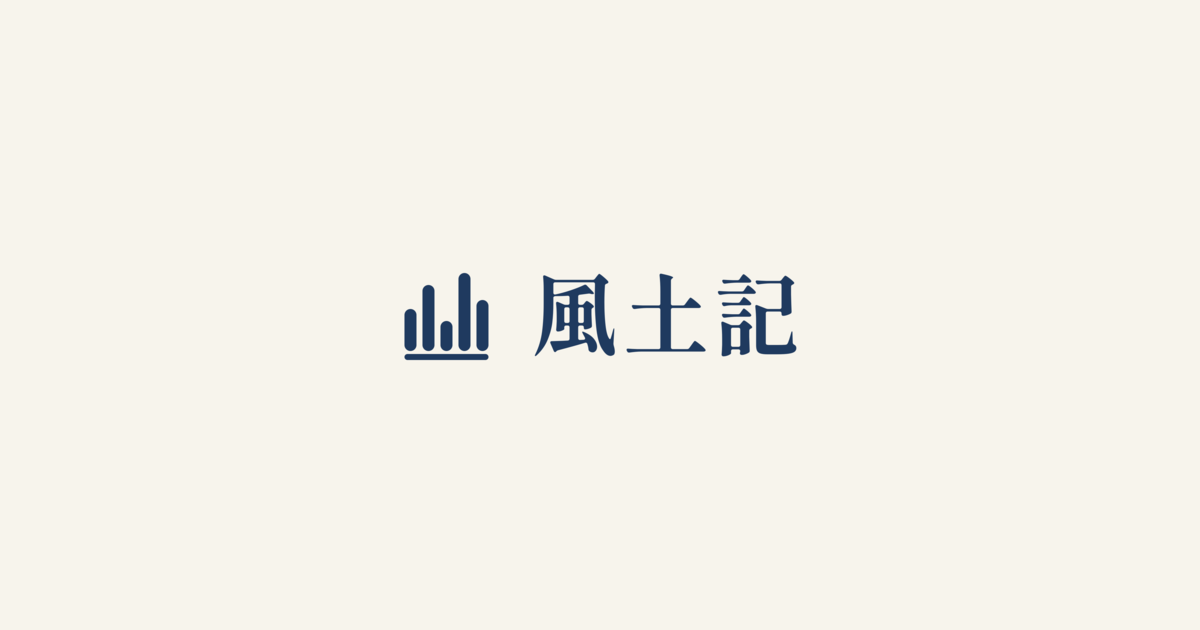
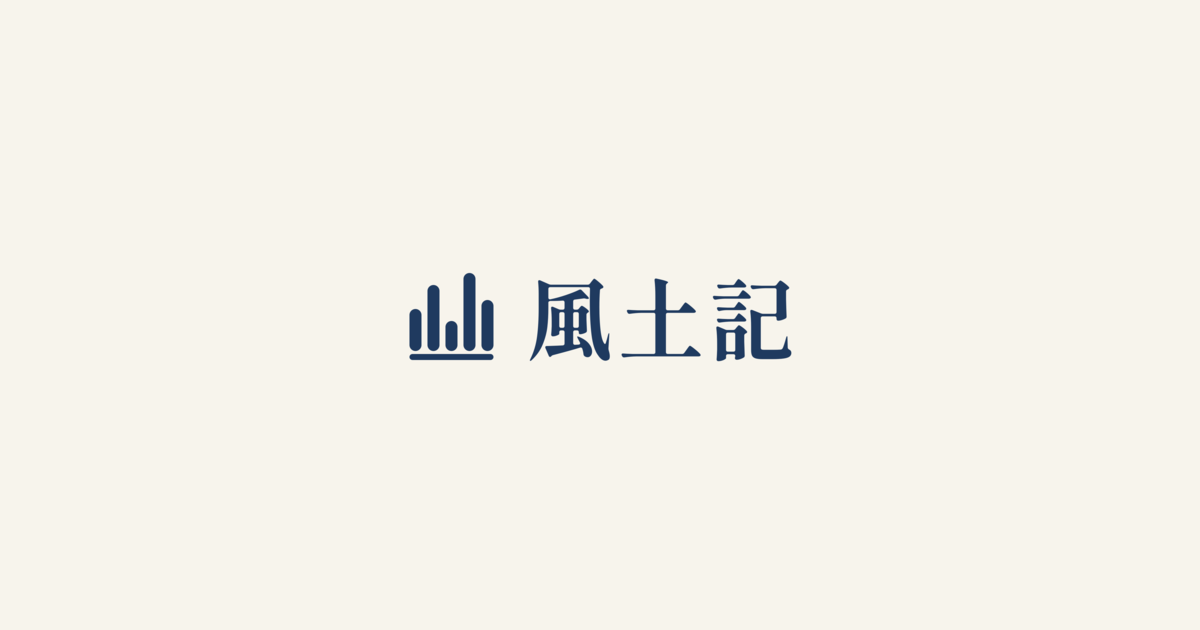
fix(brand): マークと文字の間隔を詰め、文字を光学的に下へ寄せる
ink bbox の中心で揃えると重心が上に見えていた。
マークは下端の基準線が地面として読まれるぶん視覚的な重さが下にあり、
明朝の「風土記」は横画が上半分に密集していて重さが上に寄るため、
幾何中心で揃えるとその差がずれとして出る。

補正は定数ではなく字面高さに対する比で持つ（サイズを変えても崩れない）。
間隔は og 36→26px、logo 14→9px。

Changed region(s): [[0.3392, 0.4222, 0.6783, 0.573]]

diff --git a/apps/web/src/App.tsx b/apps/web/src/App.tsx
@@ -16,7 +16,6 @@ import { Card, CardDescription, CardHeader, CardTitle } from '@/components/ui/ca
 import { Tabs, TabsContent, TabsList, TabsTrigger } from '@/components/ui/tabs'
 import { Tooltip, TooltipContent, TooltipTrigger } from '@/components/ui/tooltip'
 import { Info } from 'lucide-react'
-import { Button } from '@/components/ui/button'
 import { levelsOf, loadDetail, loadPipeline, toRows, type DetailData, type PipelineData } from '@/lib/pipeline'
 
 export default function App() {
@@ -119,20 +118,23 @@ export default function App() {
   return (
     <div className="min-h-dvh bg-background text-foreground">
       <header className="sticky top-0 z-30 flex h-14 items-center gap-4 border-b bg-background/95 px-4 backdrop-blur">
-        <div className="flex min-w-0 items-center gap-2">
-          {data.jurisdictions.length > 1 && (
-            <nav aria-label="団体" className="flex shrink-0 gap-1">
+        <div className="flex min-w-0 items-center gap-3">
+          <img src="/logo.svg" alt="風土記" className="h-6 w-auto shrink-0" />
+          {data.jurisdictions.length > 1 ? (
+            <select
+              aria-label="団体"
+              value={current.code}
+              onChange={(e) => { setCode(e.target.value); setSelectedNode(null); setDetailError(null) }}
+              className="border-input h-8 shrink-0 rounded-md border bg-background px-2 text-sm focus-visible:ring-ring/50 focus-visible:ring-[3px] focus-visible:outline-none"
+            >
               {data.jurisdictions.map((j) => (
-                <Button
-                  key={j.code}
-                  size="sm"
-                  variant={j.code === current.code ? 'default' : 'outline'}
-                  onClick={() => { setCode(j.code); setSelectedNode(null); setDetailError(null) }}
-                >
+                <option key={j.code} value={j.code}>
                   {j.report.meta.jurisdictionName}
-                </Button>
+                </option>
               ))}
-            </nav>
+            </select>
+          ) : (
+            <span className="shrink-0 text-sm font-medium">{m.jurisdictionName}</span>
           )}
           <span className="truncate text-sm text-muted-foreground">
             {m.fiscalYears.length > 2

diff --git a/apps/web/brand/build.py b/apps/web/brand/build.py
@@ -124,25 +124,30 @@ THEME = f"""
 )
 
 # ---- logo.svg：マーク + 「風土記」の横組み ----
-H, GAP, TEXT = 40, 14, 30
+# ⚠ 字面の中心（draw が計算する ink bbox の中心）に合わせると、重心が上に見える。
+# マークは下端の基準線が「地面」として読まれるぶん視覚的な重さが下にあるのに対し、
+# 明朝の「風土記」は横画が上半分に密集していて、幾何的な中心より上に重さが寄るため。
+# 光学的に下へ寄せる。TEXT_DY はこの補正で、字面の高さに対する比で持つ。
+H, GAP, TEXT, TEXT_DY = 40, 9, 30, 0.055
 tx = 32 * (H / 32) + GAP
 W = tx + measure("風土記", TEXT, 0.03)
 (PUBLIC / "logo.svg").write_text(
     f'<svg xmlns="http://www.w3.org/2000/svg" viewBox="0 0 {W:.0f} {H}" role="img" aria-label="風土記">\n'
     f"  <title>風土記</title>{THEME}\n"
     f'  {mark(H / 32, 0, 0, "ink")}\n'
-    f'  <g class="ink">{draw("風土記", TEXT, tx, H / 2, 0.03)}</g>\n</svg>\n'
+    f'  <g class="ink">{draw("風土記", TEXT, tx, H / 2 + TEXT * TEXT_DY, 0.03)}</g>\n</svg>\n'
 )
 
 # ---- og.png：1200x630。SVG を経由して焼く ----
 OW, OH = 1200, 630
-block = 96 + 36 + measure("風土記", 88, 0.04)
+OG_MARK, OG_TEXT, OG_GAP = 96, 88, 26
+block = OG_MARK + OG_GAP + measure("風土記", OG_TEXT, 0.04)
 ox, cy = (OW - block) / 2, OH / 2
 og = (
     f'<svg xmlns="http://www.w3.org/2000/svg" width="{OW}" height="{OH}" viewBox="0 0 {OW} {OH}">\n'
     f'  <rect width="{OW}" height="{OH}" fill="{PAPER}"/>\n'
-    f'  <g fill="{INK}">{mark(96 / 32, ox, cy - 48)}</g>\n'
-    f'  <g fill="{INK}">{draw("風土記", 88, ox + 96 + 36, cy, 0.04)}</g>\n'
+    f'  <g fill="{INK}">{mark(OG_MARK / 32, ox, cy - OG_MARK / 2)}</g>\n'
+    f'  <g fill="{INK}">{draw("風土記", OG_TEXT, ox + OG_MARK + OG_GAP, cy + OG_TEXT * TEXT_DY, 0.04)}</g>\n'
     "</svg>\n"
 )
 (HERE / "og.svg").write_text(og)

diff --git a/apps/slides/slides.md b/apps/slides/slides.md
@@ -24,7 +24,6 @@ css: unocss
 <!-- 2. Problem: 1枚1メッセージ。数字も装飾もなし -->
 
 <div class="h-full flex flex-col justify-center">
-  <p class="f-label mb-4">Problem</p>
   <h1>自治体の予算は全部公開されている。<br>しかし機械で読めない。</h1>
   <div class="mt-8 space-y-3 text-sm">
 
@@ -41,11 +40,9 @@ css: unocss
 <!-- 3. Solution: 何をするかを1文 + パイプライン図 -->
 
 <div class="h-full flex flex-col justify-center">
-  <p class="f-label mb-4">Solution</p>
   <h1>集めて、同じ様式に編んで、標準形式で配る。</h1>
-  <div class="mt-6 f-card h-52 flex items-center justify-center">
-    <!-- TODO: fudoki.dev パイプライン画面のスクリーンショットに差し替え -->
-    <span class="f-caption">（パイプライン画面のスクリーンショット）</span>
+  <div class="mt-6 f-card !p-2 overflow-hidden">
+    <img src="/pipeline.png" class="w-full" alt="ELT パイプライン: 取得元 → ingestion → staging → core → package" />
   </div>
   <div class="grid grid-cols-2 gap-4 mt-4 text-sm">
     <div class="f-nojudgment">自治体が公表した事実（原典・正本）</div>
@@ -58,7 +55,6 @@ css: unocss
 <!-- 4. Demo: 実物。URL と、事業単位で引ける実例 -->
 
 <div class="h-full flex flex-col justify-center">
-  <p class="f-label mb-4">Demo</p>
   <h1>事業単位の使途が、機械で引ける。</h1>
   <div class="mt-6 f-card">
     <div class="f-mono">「いじめ問題対策協議会関係費」はいくら?</div>
@@ -70,29 +66,25 @@ css: unocss
 
 ---
 
-<!-- 5. Traction: 実測値だけ。stat カード3枚 -->
+<!-- 5. Technology: 技術軸。宣言・層・検査 -->
 
 <div class="h-full flex flex-col justify-center">
-  <p class="f-label mb-4">Traction</p>
-  <h1>2団体、55,255行を配布中。</h1>
-  <div class="grid grid-cols-3 gap-4 mt-8">
+  <h1>自治体を足す作業は、宣言を1つ書くだけ。</h1>
+  <div class="grid grid-cols-3 gap-4 mt-8 text-sm">
     <div class="f-card">
-      <div class="f-label">団体</div>
-      <div class="f-stat">2</div>
-      <div class="f-caption">三鷹市・狛江市</div>
+      <div class="f-label">自治体差は宣言で吸収</div>
+      <p class="!mt-2">金額の単位、文字コード、科目の書式。自治体ごとの癖はコードに埋めず <span class="f-mono">sources.toml</span> に宣言する</p>
     </div>
     <div class="f-card">
-      <div class="f-label">配布行数</div>
-      <div class="f-stat">55,255</div>
-      <div class="f-caption">歳出・歳入・事業名</div>
+      <div class="f-label">事実と判断を層で分離</div>
+      <p class="!mt-2">自治体が公表した事実（正本）と風土記の判断（COFOG 割当）を分け、境界は dbt のテストで守る</p>
     </div>
     <div class="f-card">
-      <div class="f-label">年度</div>
-      <div class="f-stat">7</div>
-      <div class="f-caption">予算1 + 決算6</div>
+      <div class="f-label">検査が落ちたら配らない</div>
+      <p class="!mt-2">原文の復元・行数の一致など42検査。1つでも落ちると下流の配布物を作らない</p>
     </div>
   </div>
-  <p class="f-caption mt-8">Fiscal Data Package 1.0.0 + COFOG。団体を足す作業は「宣言を1つ書く」に閉じた。</p>
+  <p class="f-caption mt-8">ingestion(Python) → Parquet / DuckDB → dbt → Fiscal Data Package 1.0.0（国際標準）。</p>
 </div>
 
 ---
@@ -100,28 +92,38 @@ css: unocss
 <!-- 6. Why now: AI。MCP で直接引ける -->
 
 <div class="h-full flex flex-col justify-center">
-  <p class="f-label mb-4">Why now</p>
   <h1>AI は PDF の予算書に答えられない。<br>構造化データなら答えられる。</h1>
-  <div class="mt-8 f-card">
-    <div class="f-mono">"狛江市の2023年度、教育費の事業別内訳は?" → 風土記 MCP → 表</div>
+  <div class="mt-4 f-card !p-3 overflow-hidden">
+    <img src="/mcp-demo.png" class="w-full max-h-64 object-contain" alt="Claude が fudoki MCP で三鷹市のいじめ対策費を引いて答える" />
   </div>
-  <p class="f-caption mt-6">API と MCP サーバで提供。国際標準の語彙（COFOG）だから、AI が学習済みの分類で答えられる。</p>
+  <p class="f-caption mt-3">API と MCP サーバで提供。国際標準の語彙（COFOG）だから、AI が学習済みの分類で答えられる。</p>
 </div>
 
 ---
 
-<!-- 7. Vision: 市場と行き先。自治体版 Open States -->
+<!-- 7. 将来の展望（最終スライド） -->
 
 <div class="h-full flex flex-col justify-center">
-  <p class="f-label mb-4">Vision</p>
   <h1>自治体財政の Open States になる。</h1>
-  <div class="mt-8 space-y-3 text-sm">
+  <div class="grid grid-cols-3 gap-4 mt-8 text-sm">
+    <div class="f-card">
+      <div class="f-label">① 何にいくら</div>
+      <p class="!mt-2">予算・決算<br><span class="f-mono">Fiscal Data Package</span></p>
+    </div>
+    <div class="f-card">
+      <div class="f-label">② いつ何が公告されたか</div>
+      <p class="!mt-2">調達<br><span class="f-mono">OCDS</span></p>
+    </div>
+    <div class="f-card">
+      <div class="f-label">③ どう決まったか</div>
+      <p class="!mt-2">議会の会議録<br><span class="f-mono">Popolo</span></p>
+    </div>
+  </div>
+  <div class="mt-8 space-y-2 text-sm">
 
-  1. **いま**: 東京都内の自治体から。パイプラインと配布は OSS（MIT）
-  2. **次**: 団体を増やす。個別自治体 × 事業単位 × 国際分類は世界にまだ無い
-  3. **その先**: 風土記をデータベースとした個別の課題解決プロダクト
+  - 3つのレイヤを既存の国際標準に載せ、同じキーで繋ぐ。東京都内から全国へ
+  - 個別の課題解決プロダクトは、このデータベースの上に作っていく
 
   </div>
-  <div class="mt-8 f-caption">運営者が消えても止まらない: 正本はリポジトリ、CI で更新、fork 可能。</div>
-  <p class="mt-4 f-mono">https://fudoki.dev ／ github.com/wwwyo/fudoki</p>
+  <p class="mt-8 f-mono">https://fudoki.dev ／ github.com/wwwyo/fudoki</p>
 </div>
